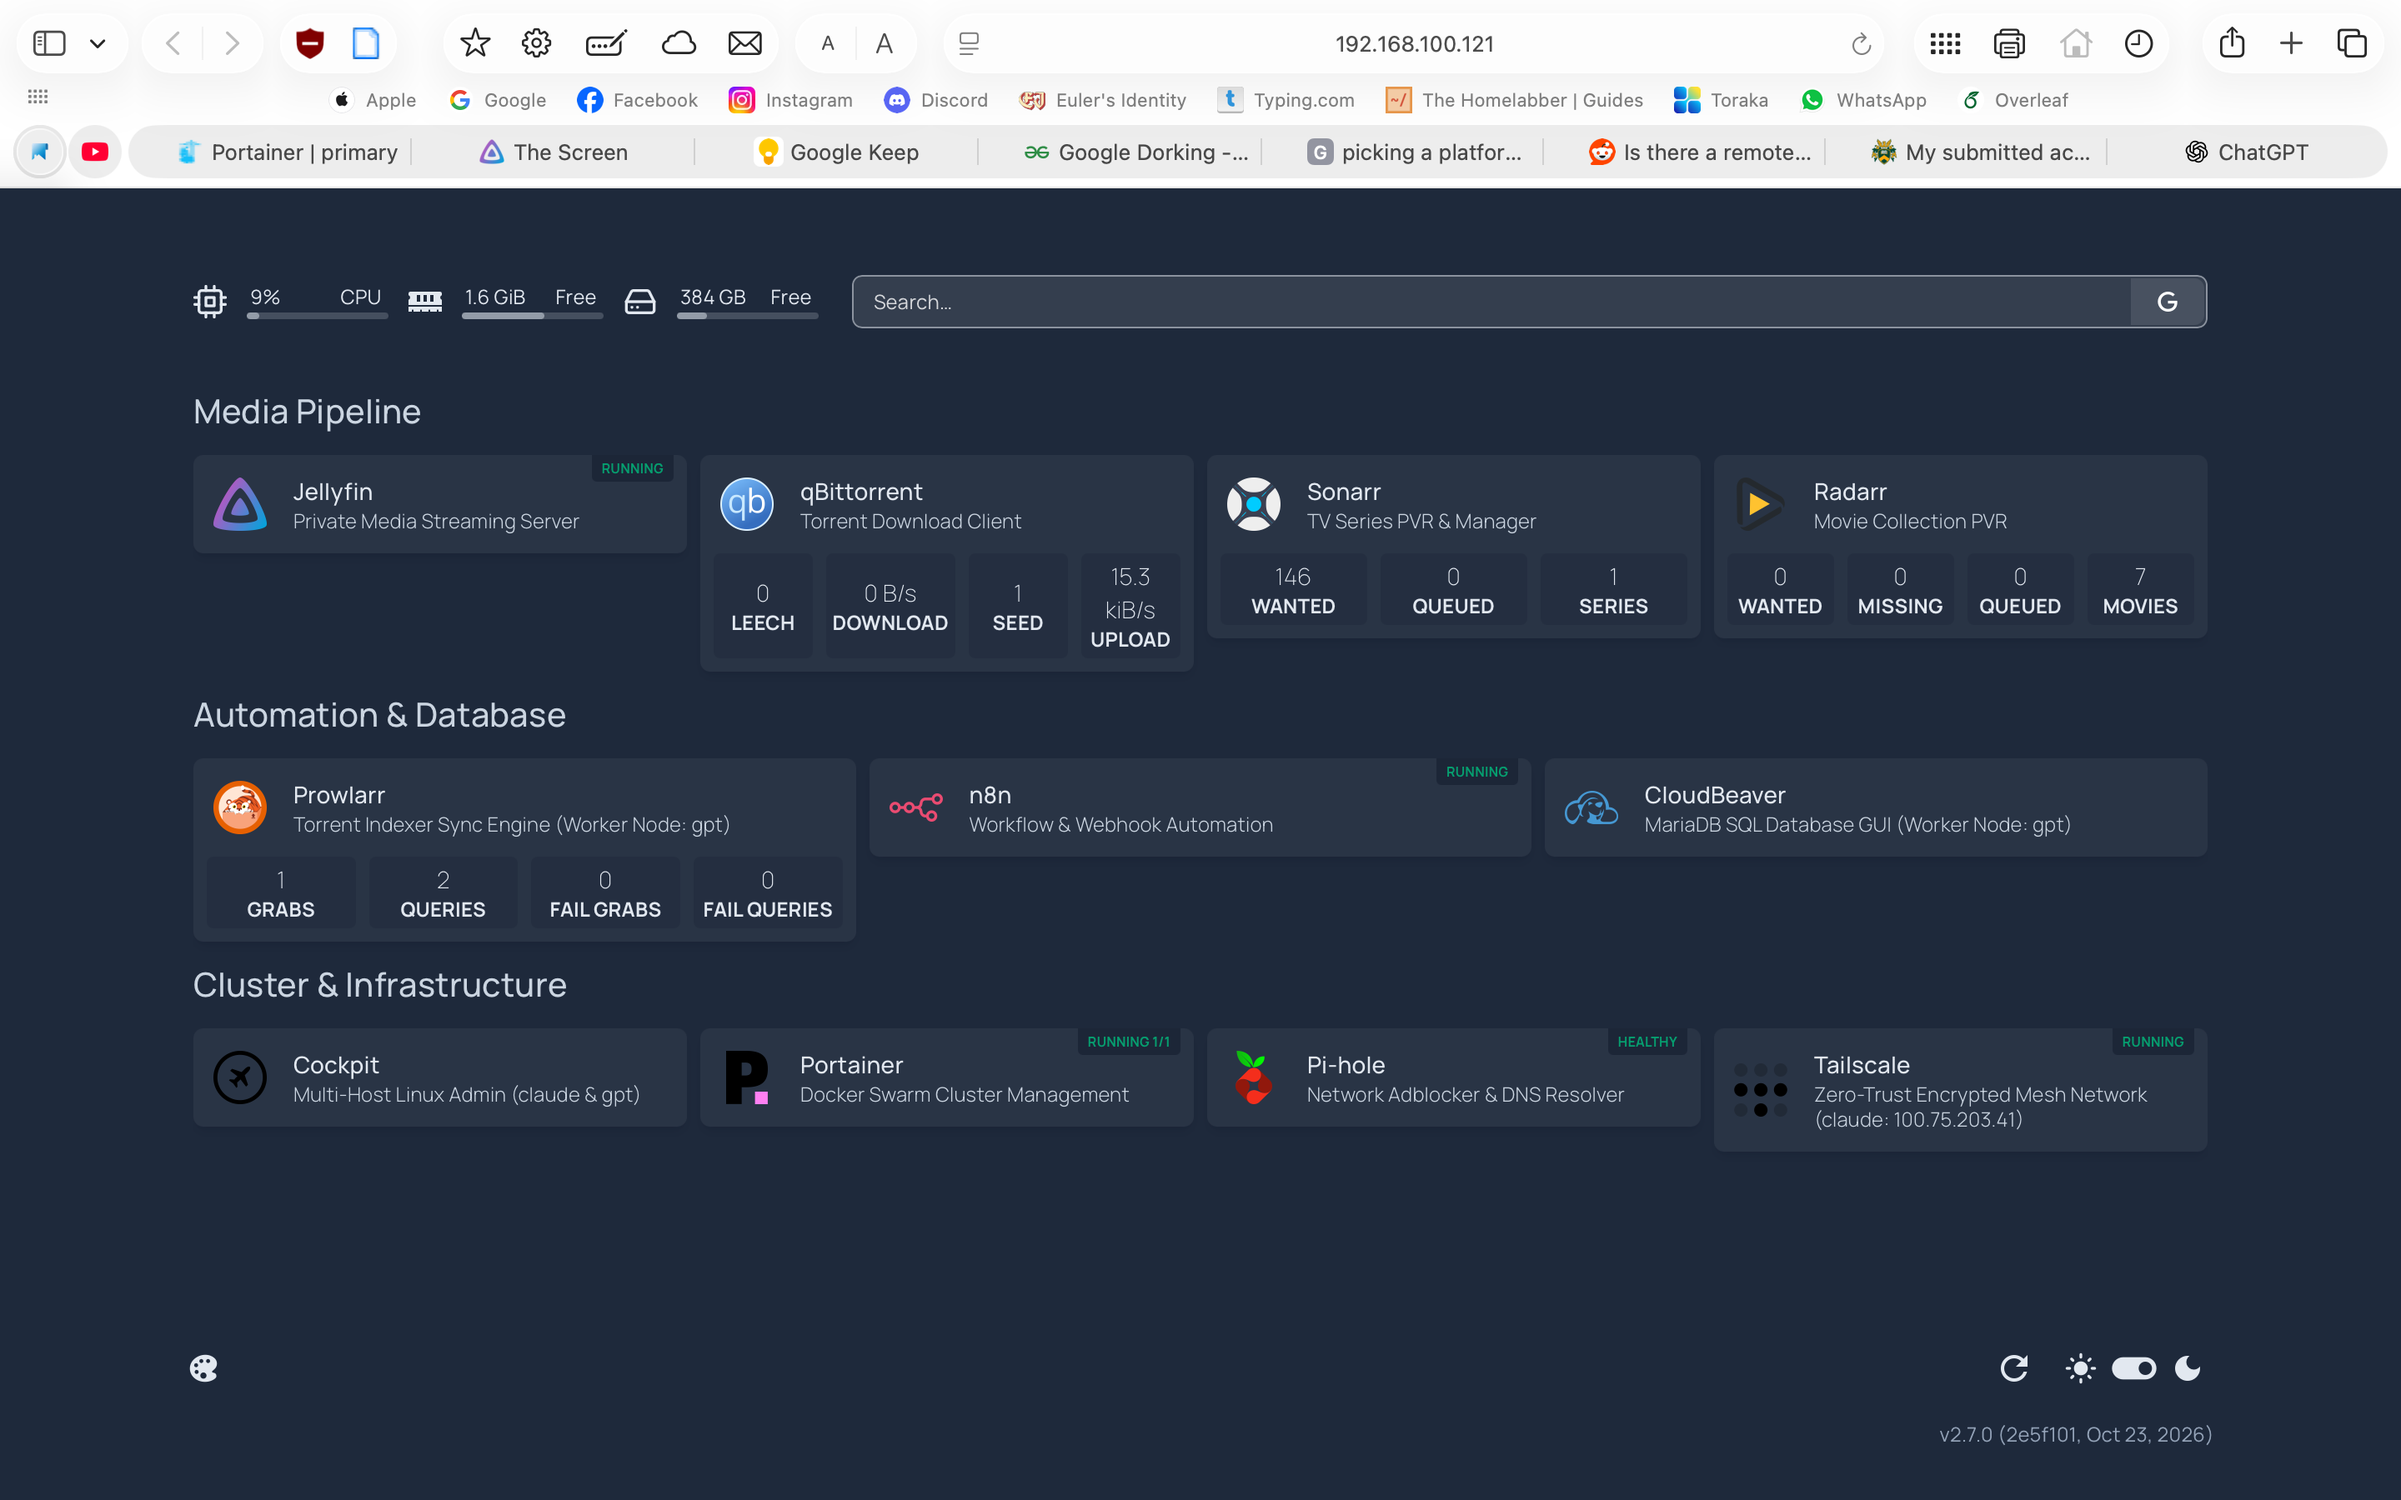
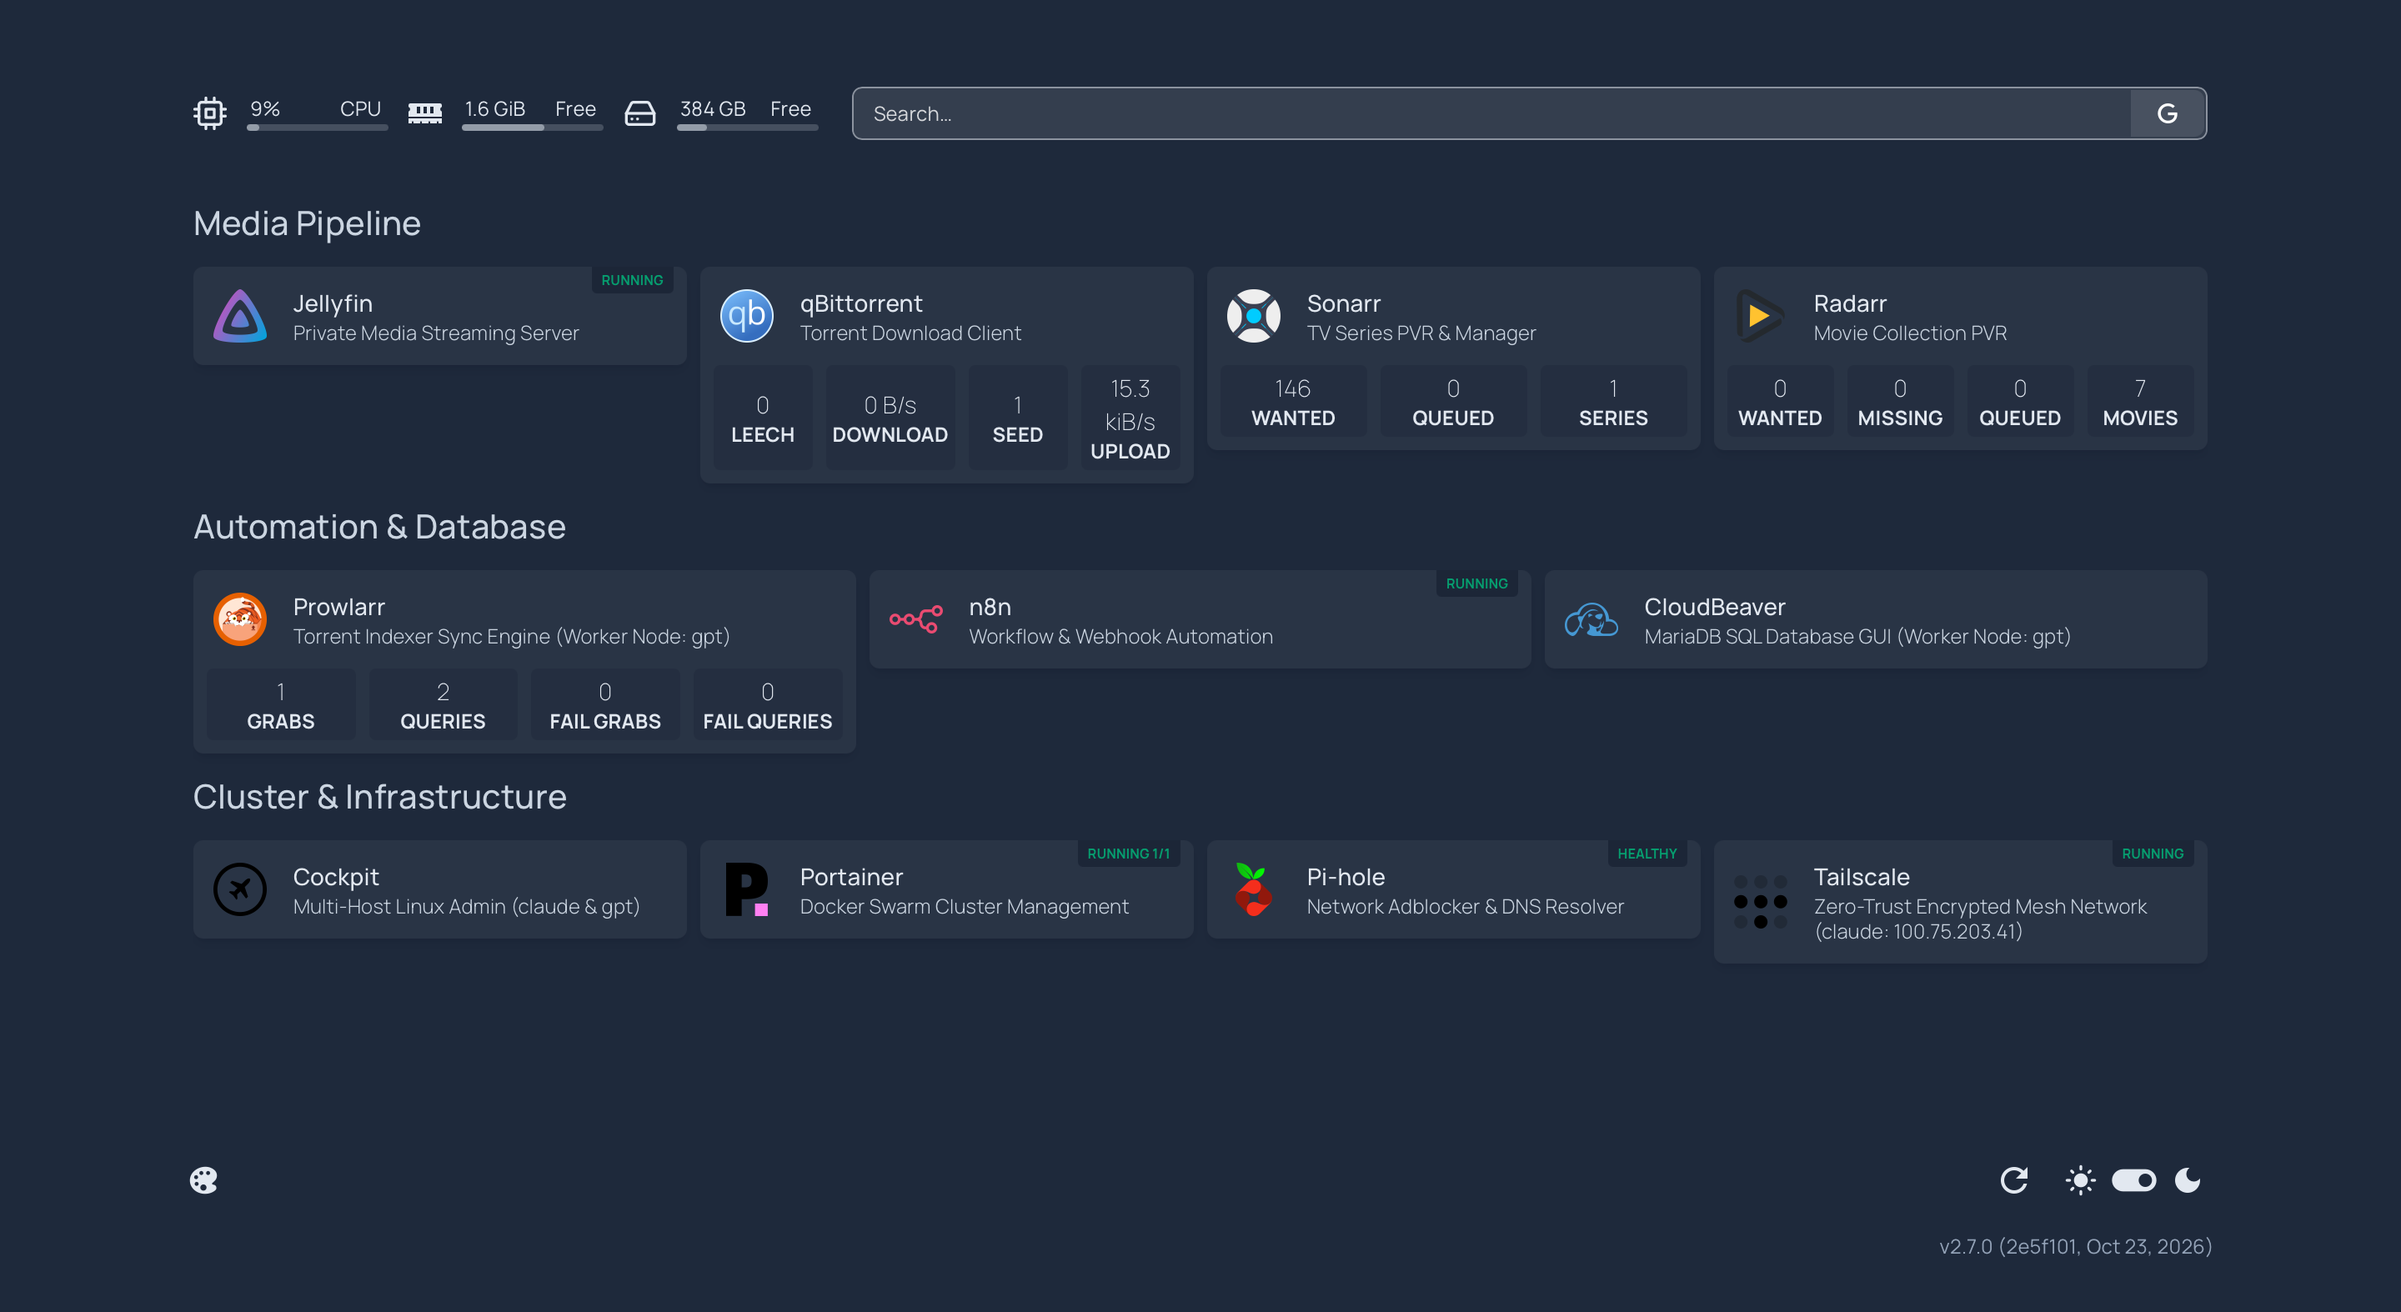
docs: add cluster modernization guide to docs/ and crop dashboard screenshot to remove browser chrome

diff --git a/docs/CLUSTER_MODERNIZATION_OPERATIONS_GUIDE.md b/docs/CLUSTER_MODERNIZATION_OPERATIONS_GUIDE.md
@@ -1,0 +1,156 @@
+# The Hive — Cluster Modernization & Operations Guide
+
+> **Cluster Profile:** 2-Node Headless Docker Swarm Homelab  
+> **Manager Node (`claude`):** `192.168.100.121` | Tailscale: `100.75.203.41` | Debian 13 (Linux 6.12)  
+> **Worker Node (`gpt`):** `192.168.100.126` | Debian 13 Bare-Metal Worker  
+> **Repository:** [github.com/sbbxiii/The-Hive](https://github.com/sbbxiii/The-Hive)
+
+---
+
+## 1. Executive Summary of Modernization
+
+![Homepage Dashboard Live](images/05_homepage_cluster_dashboard.png)
+
+This operations guide documents the transition of **The Hive** from an ad-hoc collection of standalone containers and CasaOS daemons into a resilient, load-balanced, production-grade homelab cluster:
+
+1. **Replaced CasaOS with Homepage:** Gracefully retired all CasaOS systemd background daemons without disturbing running containers, replacing it with a production-grade **Homepage** dashboard with real-time API telemetry across both nodes.
+2. **Engineered a Hybrid Load-Balanced Media Automation Stack:** Deployed **Sonarr** and **Radarr** on `claude` (Manager), load-balanced **Prowlarr** across the Docker Swarm overlay network onto `gpt` (Worker), and connected them to **qBittorrent** with remote path mappings.
+3. **Fixed Jellyfin Streaming & Standardized Media Organization:** Resolved Jellyfin's virtual path resolution, reorganized loose legacy movie downloads into standard release folders, wiped redundant directories, and synced all 7 titles across both Jellyfin and Radarr.
+4. **Purged Legacy AI & Discontinued Workloads:** Completely decommissioned Ollama, Open Interpreter, SpiderFoot OSINT, and God's Eye View, reclaiming memory and compute resources.
+5. **Reclaimed >10 GB Disk & Enforced Storage Safeguards:** Fixed an unrotated 278 MB container log, enforced daemon-wide log rotation in `/etc/docker/daemon.json`, pruned dangling images and volumes, and brought reclaimable Docker waste down to **0B (0%)** across both physical nodes.
+6. **Staged NetBird WireGuard Mesh Failover:** Prepared an automated standby NetBird client stack to provide instant remote access redundancy if Tailscale experiences service disruption.
+7. **Documented & Pushed to GitHub:** Synced all compose files, sanitized secrets, updated system topology diagrams, and published live dashboard screenshots directly to [github.com/sbbxiii/The-Hive](https://github.com/sbbxiii/The-Hive).
+
+---
+
+## 2. Updated Architecture & Service Topology
+
+```mermaid
+flowchart TD
+    subgraph Clients["Client Access Layer"]
+        Mac["MacBook Air / Admin Terminal"]
+        Remote["Mobile / Remote Clients"]
+    end
+
+    subgraph Security["Zero-Trust Security & Network Redundancy"]
+        TS["Tailscale Mesh Overlay (100.75.203.41)"]
+        NB["NetBird Failover WireGuard Mesh"]
+        SSH["Hardened Ed25519 SSH Auth"]
+    end
+
+    subgraph Cluster["The Hive — 2-Node Docker Swarm Cluster (192.168.100.0/24)"]
+        subgraph NodeClaude["Manager Node: 'claude' (192.168.100.121)"]
+            OS1["Debian 13 (Linux 6.12 x86_64)<br/>Intel Core i3-5005U (4T @ 2.0GHz, 3.8GB RAM)"]
+            SwarmM["Docker Swarm Leader / Engine 29.8.1"]
+            Homepage["Homepage Dashboard (Port 3000)"]
+            PortainerM["Portainer CE (Port 9443)"]
+            PiHole["Pi-hole DNS Sinkhole (Port 53/8080)"]
+            N8N["n8n Automation Engine (Port 5678)"]
+            Postgres["PostgreSQL 14.2 (Port 5432)"]
+            Jellyfin["Jellyfin Media Server (Port 8097)"]
+            QBit["qBittorrent Engine (Port 8181)"]
+            Sonarr["Sonarr TV Series PVR (Port 8989)"]
+            Radarr["Radarr Movie Collection PVR (Port 7878)"]
+            Cockpit1["Cockpit Web Console (Port 9090)"]
+        end
+
+        subgraph NodeGPT["Worker Node: 'gpt' (192.168.100.126)"]
+            OS2["Debian 13 Bare-Metal Node<br/>Low-Power x86 Mobile CPU (3.8GB RAM)"]
+            SwarmW["Docker Swarm Worker"]
+            PortAgent["Portainer Global Swarm Agent"]
+            MariaDB["MariaDB 11.4 SQL (Port 3306)"]
+            CloudBeaver["CloudBeaver SQL Web GUI (Port 8978)"]
+            Prowlarr["Prowlarr Indexer Sync (Port 9696)"]
+        end
+    end
+
+    Mac --> TS
+    Remote --> TS
+    TS --> SSH
+    SSH --> SwarmM
+    SwarmM <===>|"Overlay VXLAN (database_learning_network, prowlarr_default)"| SwarmW
+```
+
+---
+
+## 3. Media Pipeline & Storage Layout
+
+### Storage Structure (`/DATA/Media/Movies/`)
+Every movie complies with the universal Sonarr/Radarr and Jellyfin directory hierarchy:
+```
+/DATA/Media/Movies/
+├── Hamilton (2025)/
+│   └── Hamilton.2020.1080p.WEBRip.x264.AAC5.1-[YTS.MX].mp4
+├── Project Hail Mary (2026)/
+│   └── Project.Hail.Mary.2026.1080p.BluRay.Remux.MULTi.TrueHD.Atmos.H264-BTM.mkv
+├── Shrek (2001)/
+│   └── Shrek.2001.1080p.BluRay.x264.YIFY.mp4
+├── Shrek 2 (2004)/
+│   └── Shrek.2.2004.1080p.BluRay.x264.YIFY.mp4
+├── Shrek the Third (2007)/
+│   └── Shrek.The.Third.2007.1080p.HDDVD.x264.YIFY.mp4
+├── Shrek Forever After (2010)/
+│   └── Shrek.4.2010.1080p.BluRay.x264.YIFY.mp4
+└── The Hunger Games - The Ballad of Songbirds & Snakes (2023)/
+    └── The.Hunger.Games.The.Ballad.of.Songbirds.and.Snakes.2023.1080p.AMZN.WEBRip.DDP5.1.x265.10bit-GalaxyRG265.mkv
+```
+
+### Automation & Download Mapping
+* **qBittorrent Report Path:** `/app/qBittorrent/downloads/`
+* **Host Physical Path:** `/DATA/AppData/qbittorrent/config/downloads/`
+* **Remote Path Mapping:** Configured in Sonarr and Radarr settings so completed torrents are automatically linked, renamed, and moved into `/DATA/Media/`.
+
+---
+
+## 4. Docker Storage Optimization & System Hardening
+
+Container logs on Debian/Docker default to unlimited size. We placed a permanent policy in `/etc/docker/daemon.json` and reloaded the daemon with zero downtime:
+```json
+{
+  "log-driver": "json-file",
+  "log-opts": {
+    "max-size": "10m",
+    "max-file": "3"
+  }
+}
+```
+
+### Cleaned Items & Space Reclaimed:
+- **Tailscale JSON Log:** Truncated 278 MB unrotated log file down to 0 bytes.
+- **Dangling Local Volumes:** Archived `database_mariadb_data` (168 MB) and `database_cloudbeaver_data` to `/DATA/AppData/backups/`, removing orphaned volumes on `claude`.
+- **Dead Configurations:** Removed `/DATA/AppData/big-bear-glance`.
+- **CasaOS Daemons:** Backed up compose definitions to `/DATA/AppData/compose-stacks/` and disabled all 6 `casaos*` systemd units.
+- **Prune Execution:** Ran full image, container, volume, and build-cache pruning on both `claude` and `gpt`.
+
+**Current Storage Status:**
+- `/dev/sda2`: **358 GB Available** (17% used)
+- Docker System DF: **0B Reclaimable (0% Waste)** across images, containers, and volumes.
+
+---
+
+## 5. High-Availability Remote Access: Tailscale & NetBird
+
+* **Tailscale (Active):** Connected on `claude` (`100.75.203.41`), accessible from your Mac terminal and browser.
+* **NetBird (Standby Failover):**
+  - Compose template staged at `/DATA/AppData/netbird/docker-compose.yml`.
+  - NetBird operates on interface `wt0`, preventing any collision with Tailscale's `tailscale0`.
+  - When you register at [app.netbird.io](https://app.netbird.io), copy a **Setup Key**, paste it into `/DATA/AppData/netbird/.env`, and launch the container for instant mesh redundancy.
+
+---
+
+## 6. Service URL Directory & Authentication Reference
+
+| Service | Node | Internal URL | Port | Default / Monitored State |
+| :--- | :--- | :--- | :--- | :--- |
+| **Homepage** | `claude` | `http://192.168.100.121:3000` | 3000 | Live Dashboard & Swarm Monitor |
+| **Jellyfin** | `claude` | `http://192.168.100.121:8097` | 8097 | 7 Movies Indexed with Artwork |
+| **qBittorrent** | `claude` | `http://192.168.100.121:8181` | 8181 | Default admin credentials |
+| **Sonarr** | `claude` | `http://192.168.100.121:8989` | 8989 | Automated TV PVR |
+| **Radarr** | `claude` | `http://192.168.100.121:7878` | 7878 | Automated Movie PVR |
+| **Prowlarr** | `gpt` | `http://192.168.100.121:9696` | 9696 | Swarm Ingress Indexer Proxy |
+| **CloudBeaver** | `gpt` | `http://192.168.100.121:8978` | 8978 | MariaDB Web SQL Client |
+| **n8n** | `claude` | `http://192.168.100.121:5678` | 5678 | Automation Engine |
+| **Cockpit** | `claude` | `https://192.168.100.121:9090` | 9090 | Linux System Admin (`anthropic`) |
+| **Portainer CE** | `claude` | `https://192.168.100.121:9443` | 9443 | Swarm Cluster Management |
+| **Pi-hole** | `claude` | `http://192.168.100.121:8080/admin` | 8080 | DNS Adblocker |
+| **Tailscale** | `claude` | `100.75.203.41` | Host | Mesh Peer Active |

diff --git a/README.md b/README.md
@@ -14,6 +14,8 @@
 
 By combining **mechatronics hardware overhaul** (structural case rebuilding, DC power harness repair, thermal compound replacement) with **enterprise IT systems administration** (bare-metal partition engineering, container orchestration, zero-trust overlay networking, and relational SQL database design), **The Hive** serves 14+ self-hosted microservices 24/7 across two physical laptop nodes with an idle thermal footprint of **3.2W** and continuous 35+ day uptime.
 
+> 📘 **Operations Runbook:** Check out the comprehensive [Cluster Modernization & Operations Guide](docs/CLUSTER_MODERNIZATION_OPERATIONS_GUIDE.md) detailing the retirement of CasaOS, deployment of Homepage, load-balanced media automation, and Docker storage optimizations.
+
 ---
 
 ## Architecture & Cluster Topology
@@ -251,6 +253,7 @@ The-Hive/
 │   ├── setup_node.sh                   # Headless node provisioning & systemd configuration
 │   └── backup_mariadb.sh               # Automated database backup and rotation script
 └── docs/
+    ├── CLUSTER_MODERNIZATION_OPERATIONS_GUIDE.md # Cluster migration, runbooks & maintenance guide
     └── images/
         ├── 01_salvaged_hardware_acer_back.jpg
         ├── 02_hinge_chassis_crack_damage.jpg
